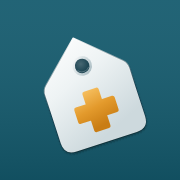
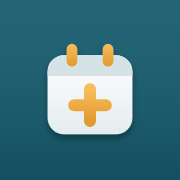
Ícones novos do app, mais limpos e profissionais (#36)
Mesmo desenho no app da equipe, no site do cliente, no ícone instalado (PWA, incluindo a
versão adaptável do Android) e no ícone do iPhone.

Claude-Session: https://claude.ai/code/session_01GRY1xTYd3ovg1ET8jqSZNL

Changed region(s): [[0.2222, 0.1944, 0.8333, 0.8611]]

diff --git a/CHANGELOG.md b/CHANGELOG.md
@@ -12,6 +12,10 @@ rodapé do painel e em `/api/health`.
 
 ## Próxima versão
 
+## 1.1.0 · 2026-11-26
+
+- Ícone novo: uma folha de agenda com a cruz da saúde em âmbar, sobre petróleo, com fundo liso.
+
 ## 1.0.0 · 2026-11-26
 
 Primeira versão numerada, com tudo que já estava no ar:
